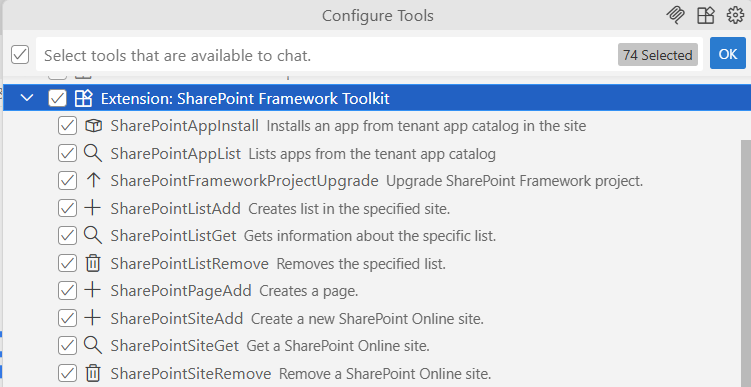
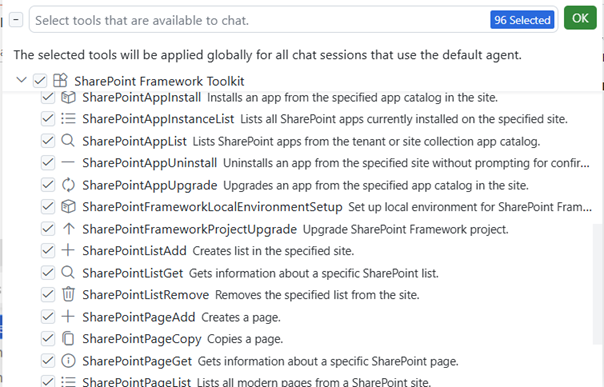
Updates language model tools documentation

diff --git a/README.md b/README.md
@@ -360,15 +360,23 @@ The extension provides the following tools
 | Tool                              | Description                                               |
 |-----------------------------------|-----------------------------------------------------------|
 | SharePointAppInstall              | Installs an app from tenant app catalog in the site       |
+| SharePointAppInstanceList         | List installed SharePoint apps in a site                  |
 | SharePointAppList                 | Lists apps from the tenant app catalog                    |
-| SharePointFrameworkProjectUpgrade | Upgrade SharePoint Framework project                      |
+| SharePointAppUninstall            | Uninstalls an app from a site                             |
+| SharePointAppUpgrade              | Upgrade a SharePoint app in the specified site            |
 | SharePointListAdd                 | Creates list in the specified site                        |
 | SharePointListGet                 | Gets information about the specific list                  |
 | SharePointListRemove              | Removes the specified list                                |
 | SharePointPageAdd                 | Creates a page                                            |
+| SharePointPageGet                 | Gets information about the specific page                  |
+| SharePointPageList                | Lists pages in the specified site                         |
+| SharePointPageCopy                | Copies a SharePoint page                                  |
+| SharePointPageRemove              | Removes the specified page                                |
 | SharePointSiteAdd                 | Create a new SharePoint Online site                       |
 | SharePointSiteGet                 | Gets information about the specific site                  |
 | SharePointSiteRemove              | Remove a SharePoint Online site                           |
+| SharePointFrameworkProjectUpgrade | Upgrade SharePoint Framework project                      |
+| SharePointFrameworkLocalEnvironmentSetup | Set up local environment for SharePoint Framework development |
 
 [Check out our docs for more details](https://pnp.github.io/vscode-viva/features/github-copilot-capabilities)
 
